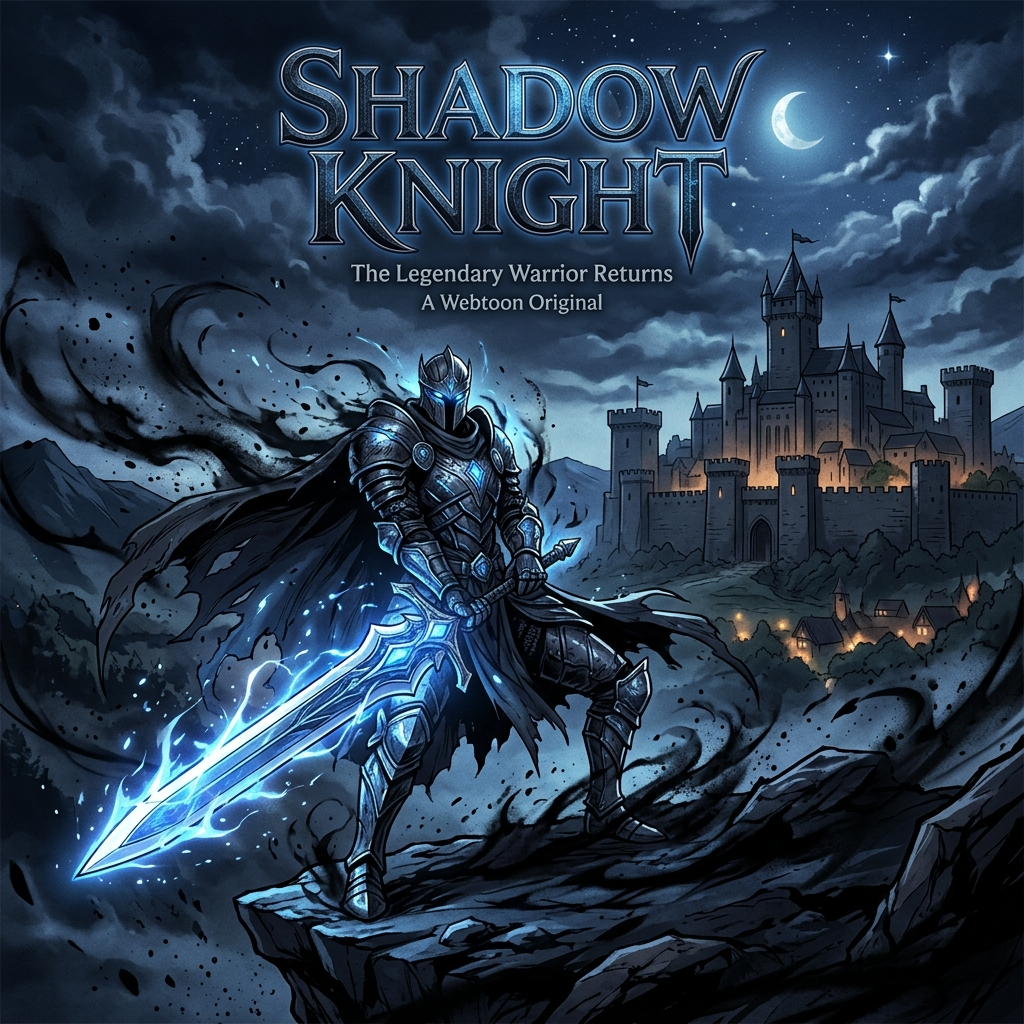
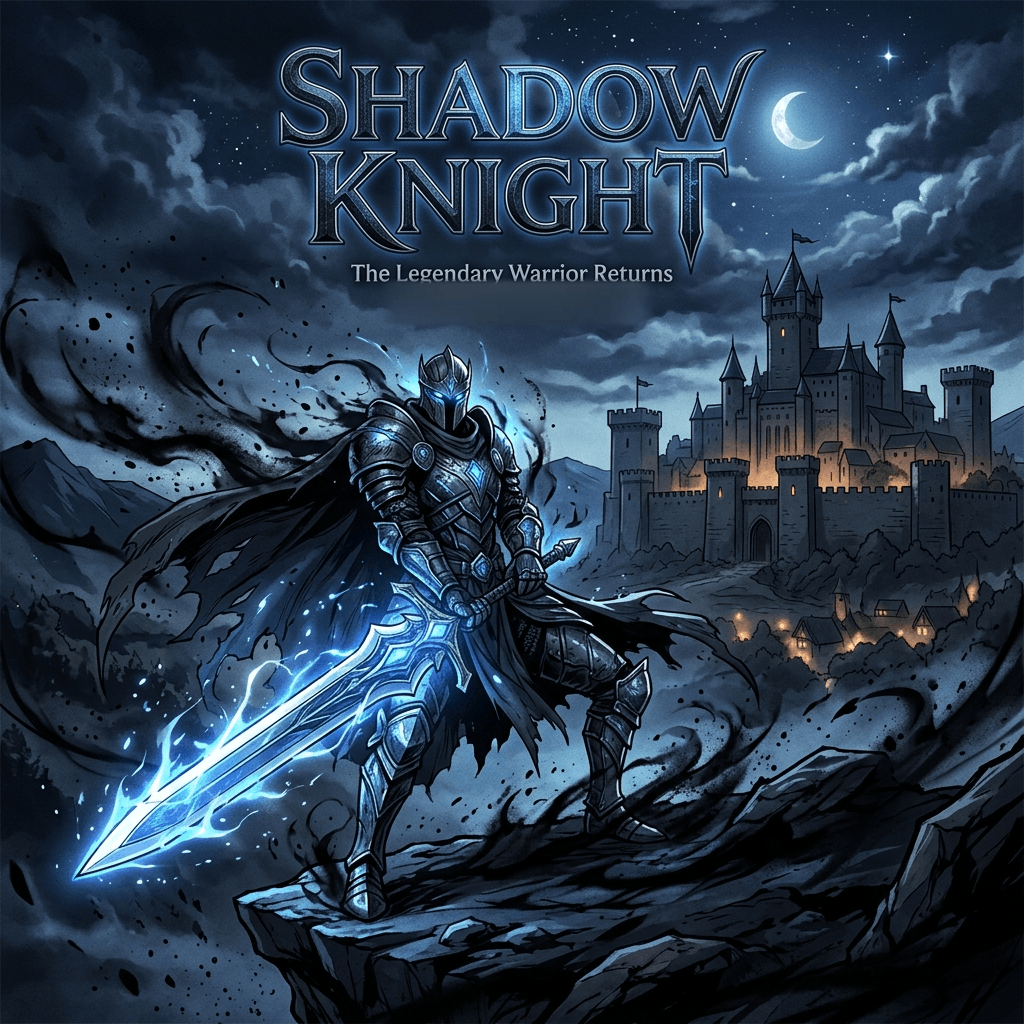
fix: remove competitor branding from two covers (Impl 224)
golden-age.png carried "Webtoon Original" and shadow-knight.png carried
"A Webtoon Original" — Naver's product branding, on covers claiming to be
another platform's originals. Both lines are gone.

cyber-dreams.png is deliberately untouched. Its WEBTOON badge is large,
opaque and white over detailed wet asphalt, flanked by both boots, so no
same-row clone source is wide enough and blurring leaves a pale smear that
is worse than the logo. It needs artwork.

The shipped technique is a Gaussian blur under a cosine-falloff alpha mask
built as raw pixels. The erased regions read as atmospheric haze: visible
at 100%, invisible at every size a cover renders.

Clone-stamping was tried first and rejected. On golden-age it looked fine
in a wide crop and at 240px, so it was applied — a full-resolution A/B
against the original then showed it had pasted in a duplicate temple roof
inside a hard-edged box, which passed casual review only because the
duplicate blended with the surrounding architecture. Patches have to be
diffed against the original at full resolution.

Re-encoding with palette PNG at max compression produced 595 and 633 kB,
smaller than the 1037 and 928 kB originals, with no banding on the
golden-age sunset gradient.

First item of #28; the rest of that issue is untouched.

Changed region(s): [[0.4062, 0.25, 0.625, 0.3125]]

diff --git a/wiki/notes/2026-09-15-cover-branding-removal.md b/wiki/notes/2026-09-15-cover-branding-removal.md
@@ -1,0 +1,59 @@
+---
+title: Impl 224 — Competitor branding removed from two covers
+type: note
+date: 2026-09-15
+tags: [portal, covers, branding, images, softgate]
+impl: 224
+---
+
+# Impl 224 — Competitor branding removed from two covers
+
+First item of [#28](https://github.com/Key9898/soft-gate-comic/issues/28). Three covers carried Naver's product branding: `golden-age.png` said **"Webtoon Original"**, `shadow-knight.png` said **"A Webtoon Original"**, and `cyber-dreams.png` has a white `WEBTOON` speech-bubble badge plus `SEASON 1`. Three covers on a SoftGate portal claiming to be another platform's originals.
+
+## Two fixed, one not
+
+`golden-age` and `shadow-knight` are done. `cyber-dreams` is **not**, deliberately — see below.
+
+## What was tried, and what the failures taught
+
+**Clone-stamping failed twice, and the second failure nearly shipped.**
+
+The first approach cloned a clean band from the same rows, on the theory that same-row sourcing preserves a vertical gradient exactly. On `shadow-knight` it pulled in cape and smoke detail and left an obvious hard-edged rectangle. On `golden-age` it looked fine in a wide crop and fine at 240px — so it was applied. Only a full-resolution A/B against the original showed it had pasted in a **duplicate temple roof** inside a hard-edged box. It read as acceptable at card size purely because the duplicated roof blended with the surrounding architecture.
+
+The lesson is the review method, not the technique: **a patch must be diffed against the original at full resolution.** Judging at delivery size hides pasted content that happens to resemble its surroundings, and "it looks fine in the crop I chose" is not a check.
+
+**A feathered blur worked, once the mask was actually a mask.** Two intermediate attempts failed for reasons worth recording:
+
+- An SVG feather using `mix-blend-mode: multiply` silently produced a fully opaque mask, so the result was a flat grey rectangle.
+- The first working raw-pixel mask used a falloff of 0.45 of the region height from each edge — 90% of the patch was semi-transparent, so the original text bled straight through and increasing the blur sigma from 18 to 60 changed almost nothing. The giveaway was that a 3x sigma increase had no visible effect.
+
+The shipped approach is a Gaussian blur under a cosine-falloff alpha built as raw pixels, feather 0.10 horizontal and 0.16 vertical. The erased regions read as atmospheric haze — a soft band, visible on close inspection at 100%, invisible at every size a cover actually renders (183px card, 384px hero, 340px OG).
+
+**`cyber-dreams` cannot be patched this way.** Its badge is large, opaque and white, sitting on detailed wet asphalt between the character's boots. Blur turns it into a pale smear that is worse than the logo, and there is no clean same-row region wide enough to clone from — the badge is flanked by both boots. It needs real artwork. Left untouched rather than shipping a visible smear.
+
+## Re-encoding
+
+Sharp's default PNG output nearly tripled the sources (`golden-age` 1037 -> 2653 kB). `palette: true` with `compressionLevel: 9, effort: 10` brought them to 595 and 633 kB — **smaller than the originals** — and a full-resolution comparison of the sunset gradient in `golden-age`, the worst case for 256-colour quantisation, shows no banding.
+
+## The staleness guard earned itself
+
+Editing the sources immediately failed `pnpm check`:
+
+```
+webtoon-covers/golden-age.png changed since its variants were built — run pnpm generate:images
+```
+
+This is the first real exercise of the Impl 223 manifest rather than a synthetic one, and it behaved exactly as designed — caught the change, named the file, gave the command.
+
+## Verification
+
+`pnpm check` green: 6/6 tasks, 109 portal + 38 API test files.
+
+Confirmed on the shipped `-384.avif` variants at card size: `golden-age` and `shadow-knight` carry no branding; `cyber-dreams` still shows its badge and `SEASON 1`, as expected.
+
+## Left open
+
+- `cyber-dreams.png` — needs artwork.
+- Everything else in #28: `[AUTHOR NAME]` / `[ARTIST NAME]` placeholders on `the-last-horizon.png` and `draft-story.png`, the baked `Comming Soon` typo, and baked-in titles on all ten covers (which is what makes covers unlocalisable — `love-in-seoul.png` shows a Korean title while the `mm` catalog title is Burmese).
+
+Blur-erasure is a stopgap for a brand-name problem, not a substitute for clean artwork. The covers should carry artwork only; title, tagline, author, artist and season are all catalog fields already rendered by `BookCard`.

diff --git a/wiki/architecture/implementation-phases.md b/wiki/architecture/implementation-phases.md
@@ -253,6 +253,7 @@ Legacy immersive / EDC-era phase log (not SoftGate Comic runtime): [implementati
 | 221  | 2026-09-15 | Rail labels renamed (Most read / Rising this week / New episodes / New series) | [2026-09-15-rail-label-rename.md](../notes/2026-09-15-rail-label-rename.md)                                                                                   |
 | 222  | 2026-09-15 | Native bcrypt + host-sized libuv threadpool (API auth off the event loop)      | [2026-09-15-native-bcrypt-threadpool.md](../notes/2026-09-15-native-bcrypt-threadpool.md)                                                                     |
 | 223  | 2026-09-15 | Responsive image pipeline (AVIF/WebP ladder, banner as `img`, staleness guard) | [2026-09-15-responsive-image-pipeline.md](../notes/2026-09-15-responsive-image-pipeline.md)                                                                   |
+| 224  | 2026-09-15 | Competitor branding blur-erased from two covers (#28); cyber-dreams left       | [2026-09-15-cover-branding-removal.md](../notes/2026-09-15-cover-branding-removal.md)                                                                         |
 
 ---
 
@@ -2083,9 +2084,17 @@ The portal shipped `banner.png` at **10667x6000 / 2486 kB** into a band at most 
 
 ---
 
+## Impl Phase 224 — Competitor branding removed from two covers (2026-09-15)
+
+**Status:** Done (2 of 3; `cyber-dreams` needs artwork)
+
+First item of [#28](https://github.com/Key9898/soft-gate-comic/issues/28). Three covers carried Naver's product branding — `golden-age` "Webtoon Original", `shadow-knight` "A Webtoon Original", `cyber-dreams` a white `WEBTOON` badge plus `SEASON 1` — i.e. three covers on a SoftGate portal claiming to be another platform's originals. **Clone-stamping failed twice and the second failure nearly shipped**: on `golden-age` it looked clean in a wide crop and at 240px, so it was applied, and only a full-resolution A/B against the original revealed it had pasted a **duplicate temple roof** inside a hard-edged box — it passed casual review purely because the duplicate blended with surrounding architecture. The durable lesson is the review method: **diff a patch against the original at full resolution**; judging at delivery size hides pasted content that resembles its surroundings. Two intermediate failures are also recorded in the note because both were silent: an SVG feather using `mix-blend-mode: multiply` produced a fully opaque mask (flat grey rectangle), and a cosine mask with 0.45 falloff left 90% of the patch semi-transparent so the text bled through and raising blur sigma from 18 to 60 changed nothing — a 3x sigma with no visible effect was the tell. Shipped approach is a Gaussian blur under a raw-pixel cosine-falloff alpha (feather 0.10 / 0.16); erased regions read as atmospheric haze, visible at 100% but not at any size a cover renders (183px card, 384px hero, 340px OG). **`cyber-dreams` deliberately untouched** — its badge is large, opaque and white over detailed wet asphalt, flanked by both boots so no same-row clone source is wide enough, and blur yields a pale smear worse than the logo. Sharp's default PNG nearly tripled the sources (1037 -> 2653 kB); `palette: true` + `compressionLevel: 9, effort: 10` gave 595/633 kB — **smaller than the originals** — with no banding on the `golden-age` sunset gradient, the worst case for 256-colour quantisation. **The Impl 223 manifest guard had its first real exercise** and failed the gate on the source edit exactly as designed. **207** stays unused. Next is **225**. Note: [2026-09-15-cover-branding-removal.md](../notes/2026-09-15-cover-branding-removal.md).
+
+---
+
 ## How to append
 
-1. Take **next free Impl** (currently **224**).
+1. Take **next free Impl** (currently **225**).
 2. Add a row to Quick index + a `## Impl Phase N` section here.
 3. Mirror in `wiki/notes/YYYY-MM-DD-<slug>.md` and `docs/sessions/YYYY-MM-DD-session-summary.md` with `phases: [N]`.
 4. Lark Title should start with `Impl N — …` for new work going forward (do not backfill historical Lark tasks unless asked).

diff --git a/wiki/README.md b/wiki/README.md
@@ -32,7 +32,7 @@ When the user asks to remember something (decision, snippet, note, ref), the wik
 
 ### Architecture & references
 
-- [architecture/implementation-phases.md](architecture/implementation-phases.md) — SoftGate Comic Impl master (**next: 222**)
+- [architecture/implementation-phases.md](architecture/implementation-phases.md) — SoftGate Comic Impl master (**next: 225**)
 - [architecture/implementation-phases-legacy.md](architecture/implementation-phases-legacy.md) — legacy immersive archive
 - [references/pm-tracker-airtable.md](references/pm-tracker-airtable.md) — Airtable PM tracker (legacy-era rows)
 - [references/api-contract.md](references/api-contract.md) — legacy EDC frontend ↔ backend API contract
@@ -260,6 +260,7 @@ When the user asks to remember something (decision, snippet, note, ref), the wik
 - [notes/2026-09-15-rail-label-rename.md](notes/2026-09-15-rail-label-rename.md) — Impl 221 rail labels (Most read / Rising this week / New episodes / New series)
 - [notes/2026-09-15-native-bcrypt-threadpool.md](notes/2026-09-15-native-bcrypt-threadpool.md) — Impl 222 native bcrypt + host-sized libuv threadpool (#25; no hash migration)
 - [notes/2026-09-15-responsive-image-pipeline.md](notes/2026-09-15-responsive-image-pipeline.md) — Impl 223 AVIF/WebP ladder, banner as `img`, manifest staleness guard (#4 asset half)
+- [notes/2026-09-15-cover-branding-removal.md](notes/2026-09-15-cover-branding-removal.md) — Impl 224 competitor branding blur-erased from two covers (#28)
 - [notes/2026-09-08-development-branch.md](notes/2026-09-08-development-branch.md) — git `development` branch for leader dev stack
 - [notes/2026-08-19-catalog-premium-left.md](notes/2026-08-19-catalog-premium-left.md) — Impl 152
 - [notes/2026-08-19-daily.md](notes/2026-08-19-daily.md) — Impl 150
